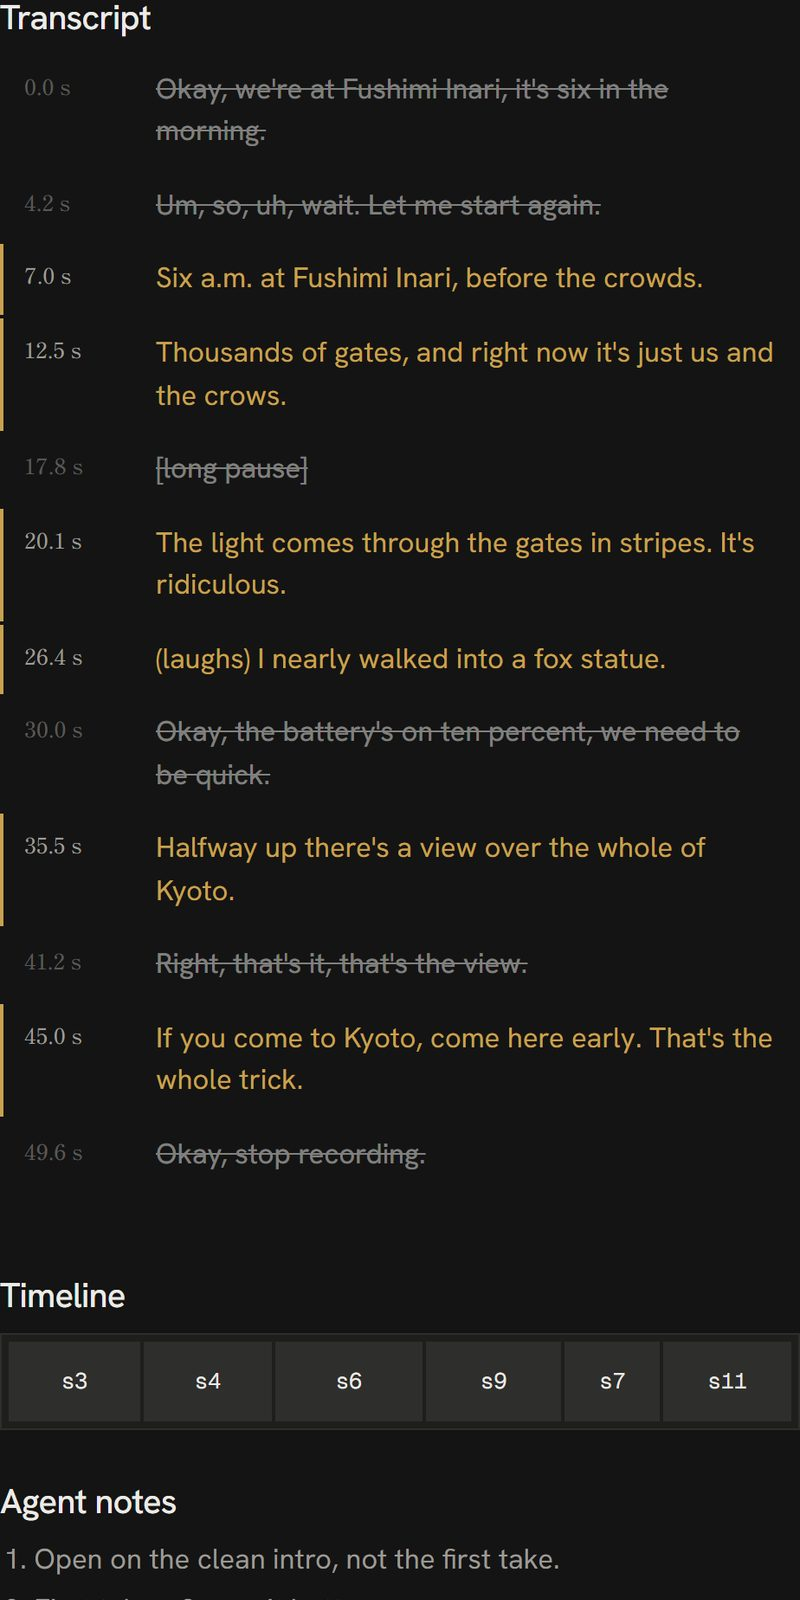
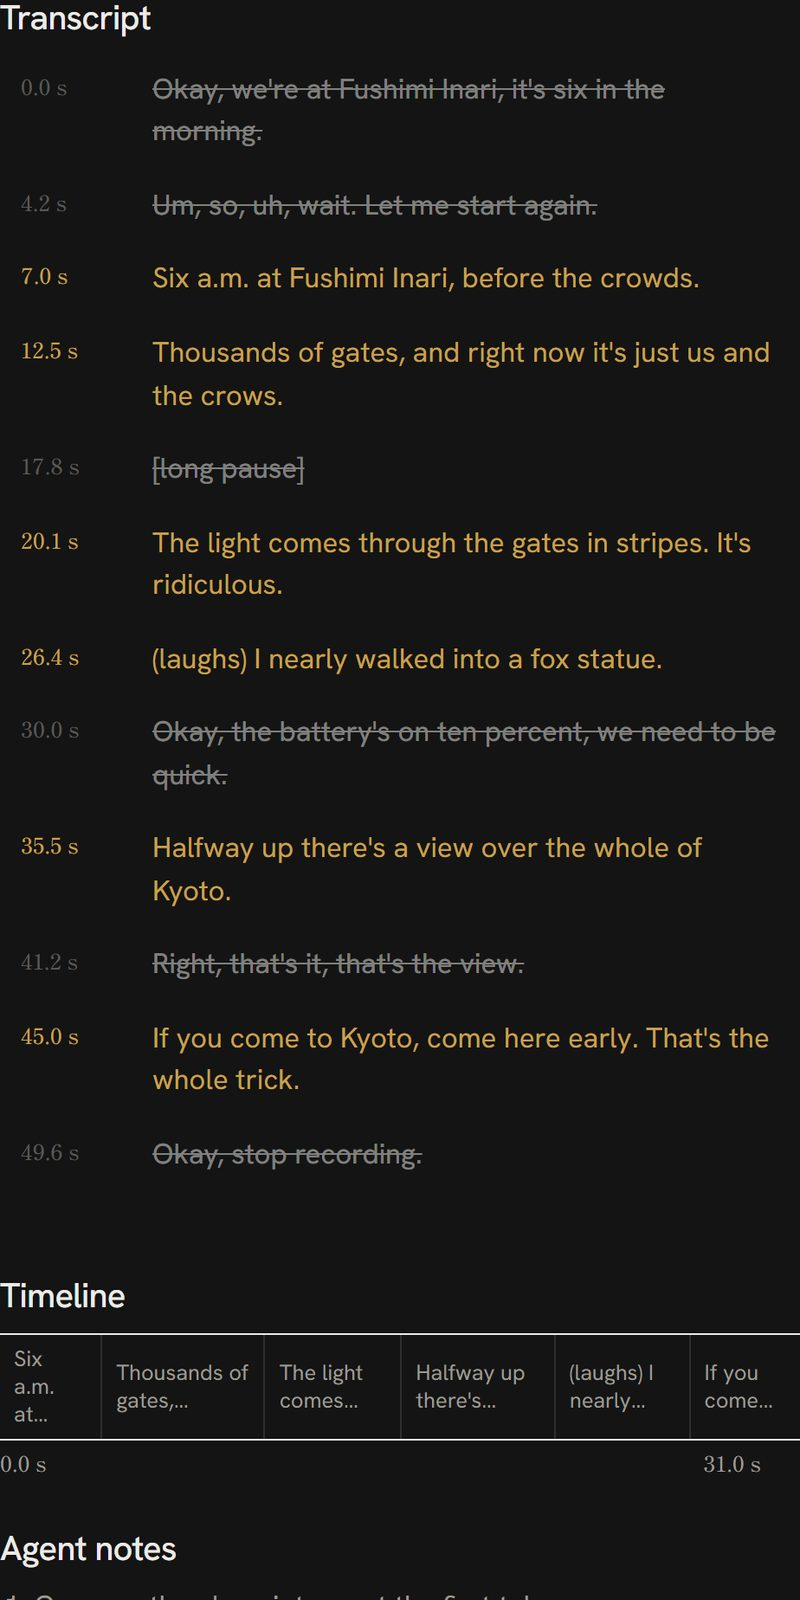
Apply Lab design review fixes

diff --git a/tests/e2e/lab-styles.spec.ts b/tests/e2e/lab-styles.spec.ts
@@ -1,4 +1,5 @@
 import { test, expect } from '@playwright/test';
+import { segments, actions, applyActions, runtime } from '../../src/data/lab/rough-cut';
 
 // Elements created by the experiments' scripts must still get the page's styles.
 test('kinetic: the emphasised word is set larger than the others', async ({ page }) => {
@@ -9,20 +10,39 @@ test('kinetic: the emphasised word is set larger than the others', async ({ page
   expect(await size('[data-stage] .word.accent')).toBeGreaterThan((await size('[data-stage] .word:not(.accent)')) * 1.8);
 });
 
-test('agent x-ray: replayed steps are drawn as boxes', async ({ page }) => {
+test('agent x-ray: only tool calls are boxed; thinking sits on the spine', async ({ page }) => {
   await page.emulateMedia({ reducedMotion: 'reduce' });
   await page.goto('/lab/agent-x-ray');
   await page.getByRole('button', { name: 'Run' }).click();
-  const step = page.locator('[data-trace] > li').first();
-  expect(await step.evaluate((el) => getComputedStyle(el).borderTopWidth)).toBe('1px');
-  expect(await step.evaluate((el) => getComputedStyle(el).display)).toBe('grid');
+  const border = (kind: string) => page.locator(`[data-trace] > li[data-kind="${kind}"]`).first().evaluate((el) => getComputedStyle(el).borderTopWidth);
+  expect(await border('tool')).toBe('1px');
+  expect(await border('think')).toBe('0px');
+  const backtrack = page.locator('[data-trace] > li[data-kind="backtrack"]').first();
+  expect(await backtrack.evaluate((el) => getComputedStyle(el).opacity)).toBe('1');
 });
 
-test('rough cut: timeline clips are drawn as blocks', async ({ page }) => {
+test('rough cut: no side stripe on selects; the timeline is a labelled hairline track', async ({ page }) => {
   await page.emulateMedia({ reducedMotion: 'reduce' });
   await page.goto('/lab/rough-cut');
   await page.getByRole('button', { name: 'Play' }).click();
-  const clip = page.locator('[data-track] .rc__clip').first();
-  expect(await clip.evaluate((el) => getComputedStyle(el).display)).toBe('grid');
-  expect(await clip.evaluate((el) => getComputedStyle(el).backgroundColor)).not.toBe('rgba(0, 0, 0, 0)');
+  const selected = page.locator('[data-transcript] [data-state="selected"]').first();
+  expect(await selected.evaluate((el) => getComputedStyle(el).borderLeftWidth)).toBe('0px');
+  const first = segments.find((s) => s.id === applyActions(segments, actions).order[0])!;
+  await expect(page.locator('[data-track] .rc__clip').first()).toContainText(first.text.split(' ').slice(0, 3).join(' '));
+  await expect(page.locator('[data-track-start]')).toHaveText('0.0 s');
+  await expect(page.locator('[data-track-end]')).toHaveText(`${runtime(segments, applyActions(segments, actions).order).toFixed(1)} s`);
+});
+
+test('variants: Japanese headlines break only at phrase boundaries', async ({ page }) => {
+  await page.goto('/lab/variants');
+  const ja = page.locator('[data-tile][lang="ja"] .tile__headline').first();
+  expect(await ja.evaluate((el) => getComputedStyle(el).wordBreak)).toBe('keep-all');
+  expect(await ja.locator('wbr').count()).toBeGreaterThan(0);
+});
+
+test('kanji: the space-to-reveal hint only shows in quiz mode', async ({ page }) => {
+  await page.goto('/lab/kanji');
+  await expect(page.getByText('Space to reveal')).toBeHidden();
+  await page.getByLabel('Quiz mode').check();
+  await expect(page.getByText('Space to reveal')).toBeVisible();
 });

diff --git a/src/data/lab/variants.ts b/src/data/lab/variants.ts
@@ -16,6 +16,14 @@ export const headlines: Record<Lang, string[]> = {
   ja: ['一日をブロックで計画。', '集中して、きちんと止める。', '気が散るものを遠ざける。', '一週間をリングで振り返る。'],
 };
 
+/** Japanese headlines split into phrases (文節), so lines only break between them. */
+export const phrases: Record<string, string[]> = {
+  '一日をブロックで計画。': ['一日を', 'ブロックで', '計画。'],
+  '集中して、きちんと止める。': ['集中して、', 'きちんと', '止める。'],
+  '気が散るものを遠ざける。': ['気が散るものを', '遠ざける。'],
+  '一週間をリングで振り返る。': ['一週間を', 'リングで', '振り返る。'],
+};
+
 /** Every shot × layout × colourway once; languages alternate and headlines rotate, so the grid stays varied. */
 export function variants(): Variant[] {
   const out: Variant[] = [];
